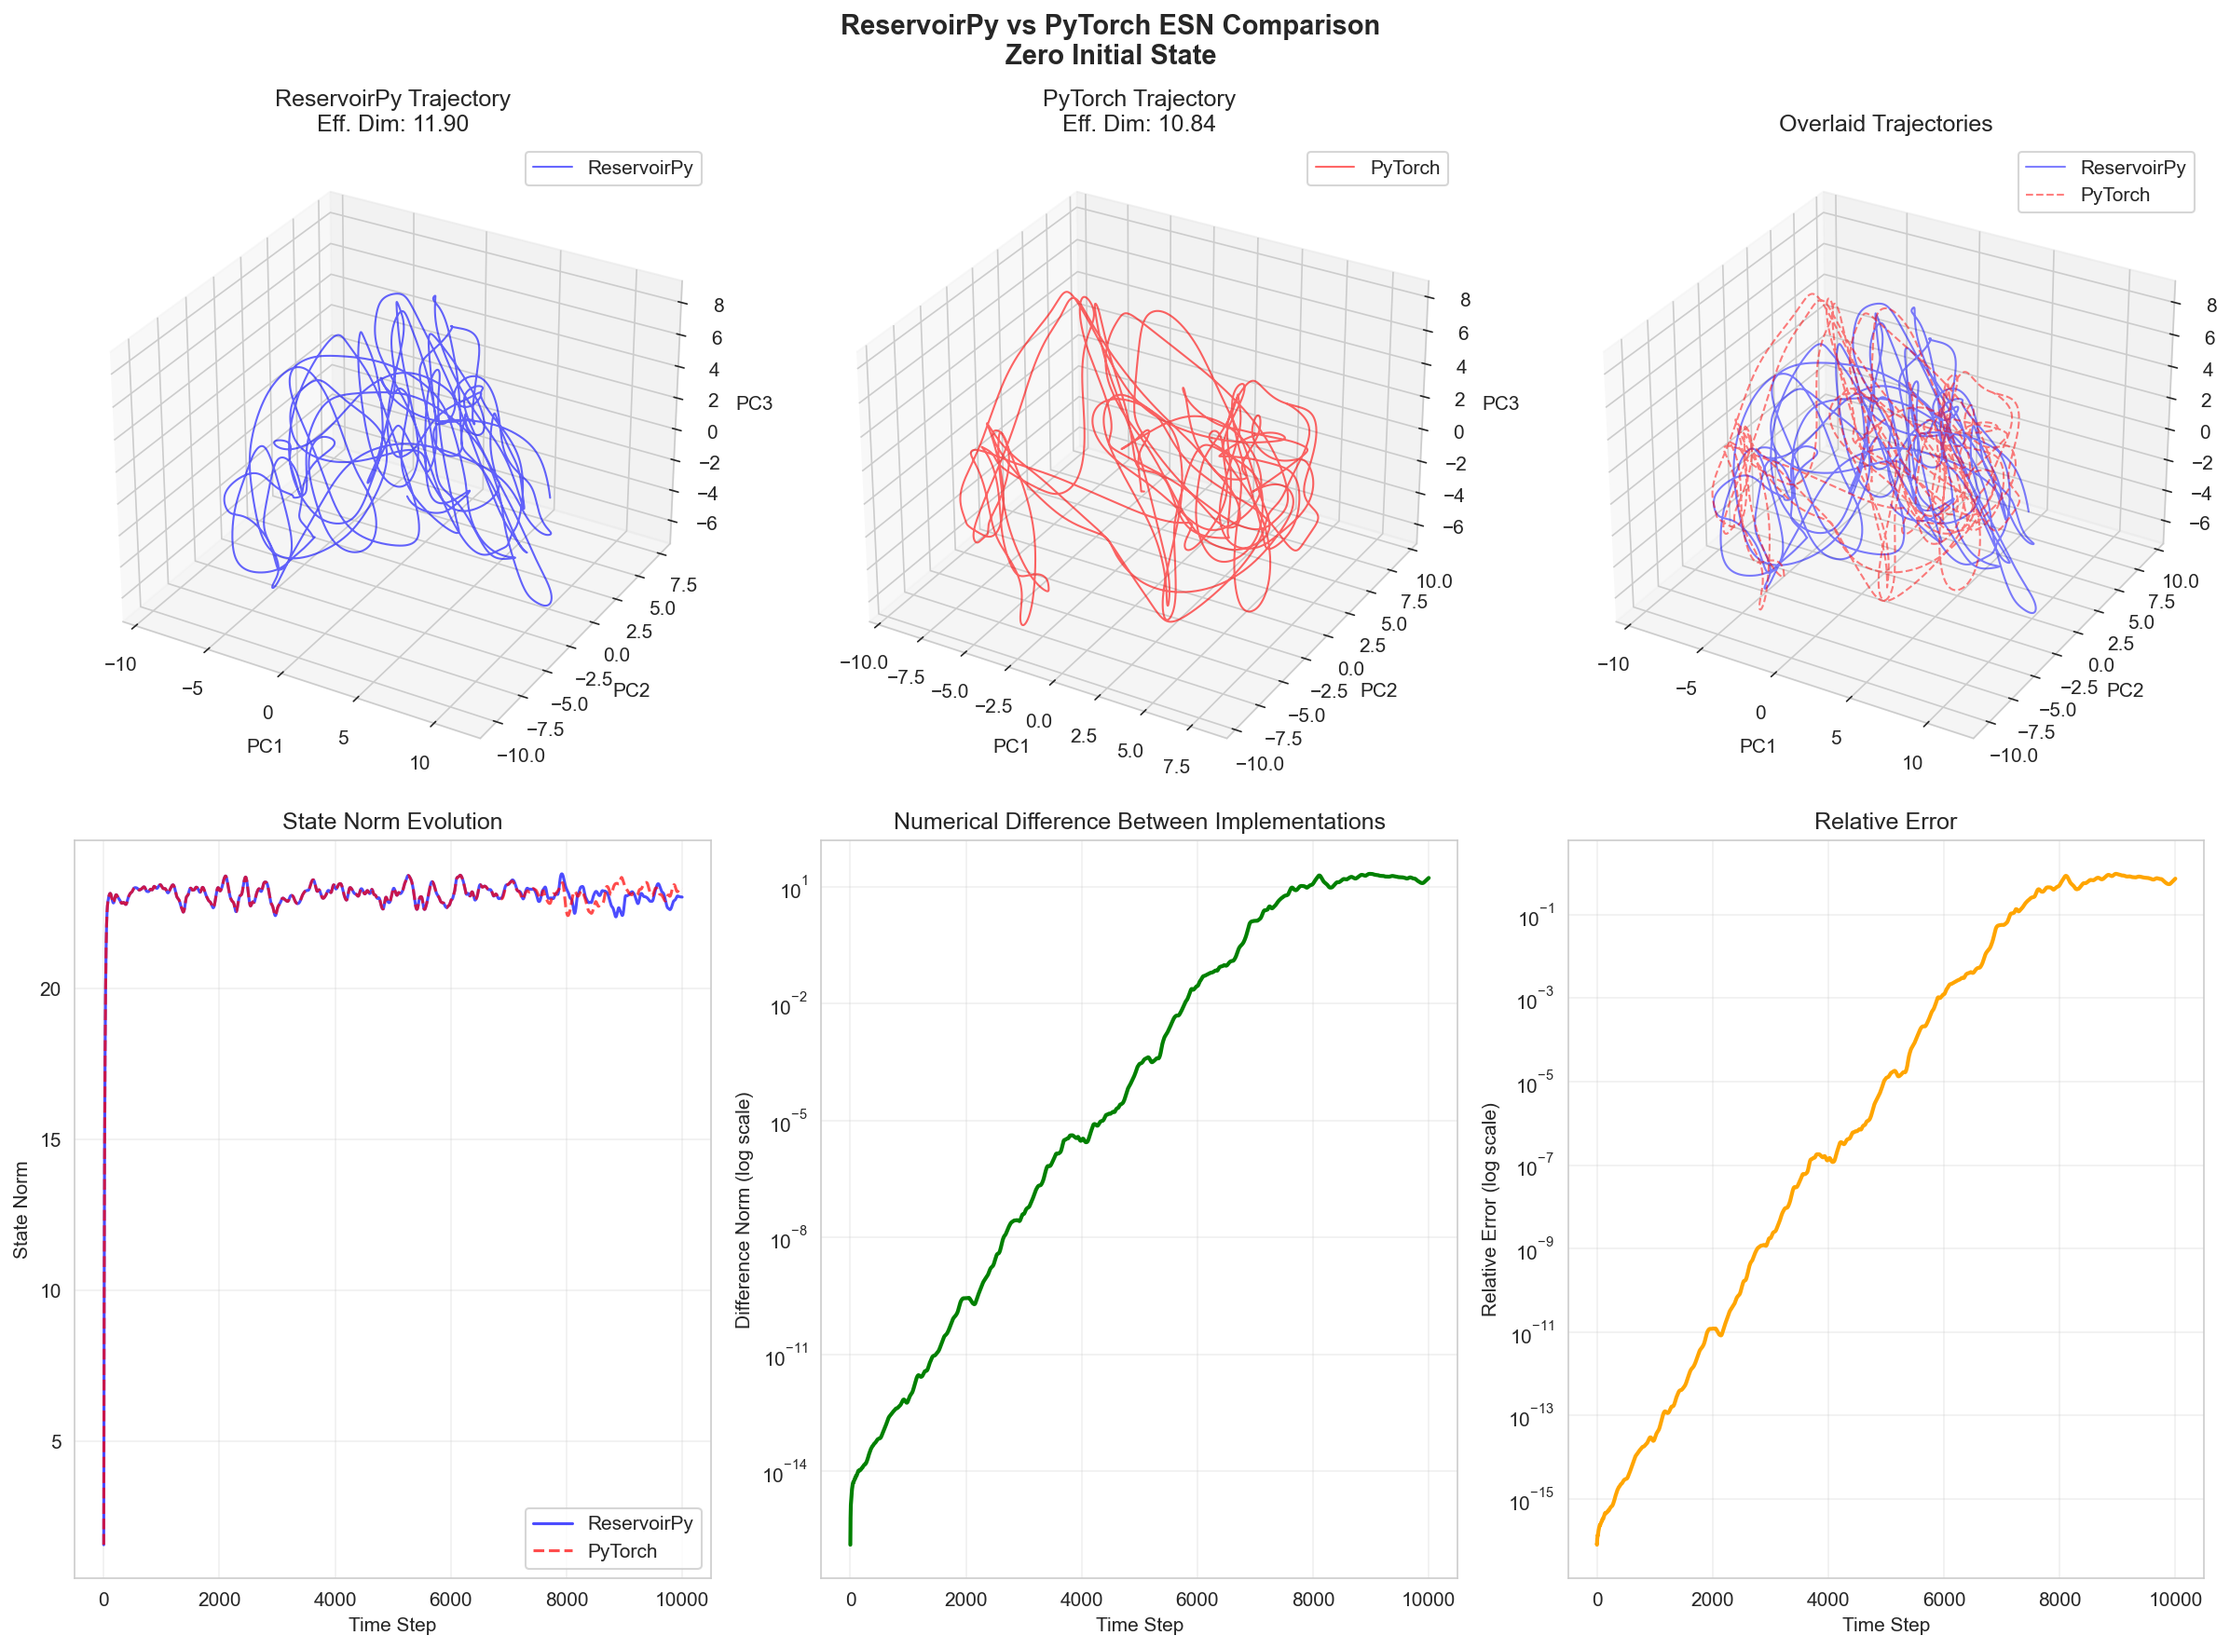
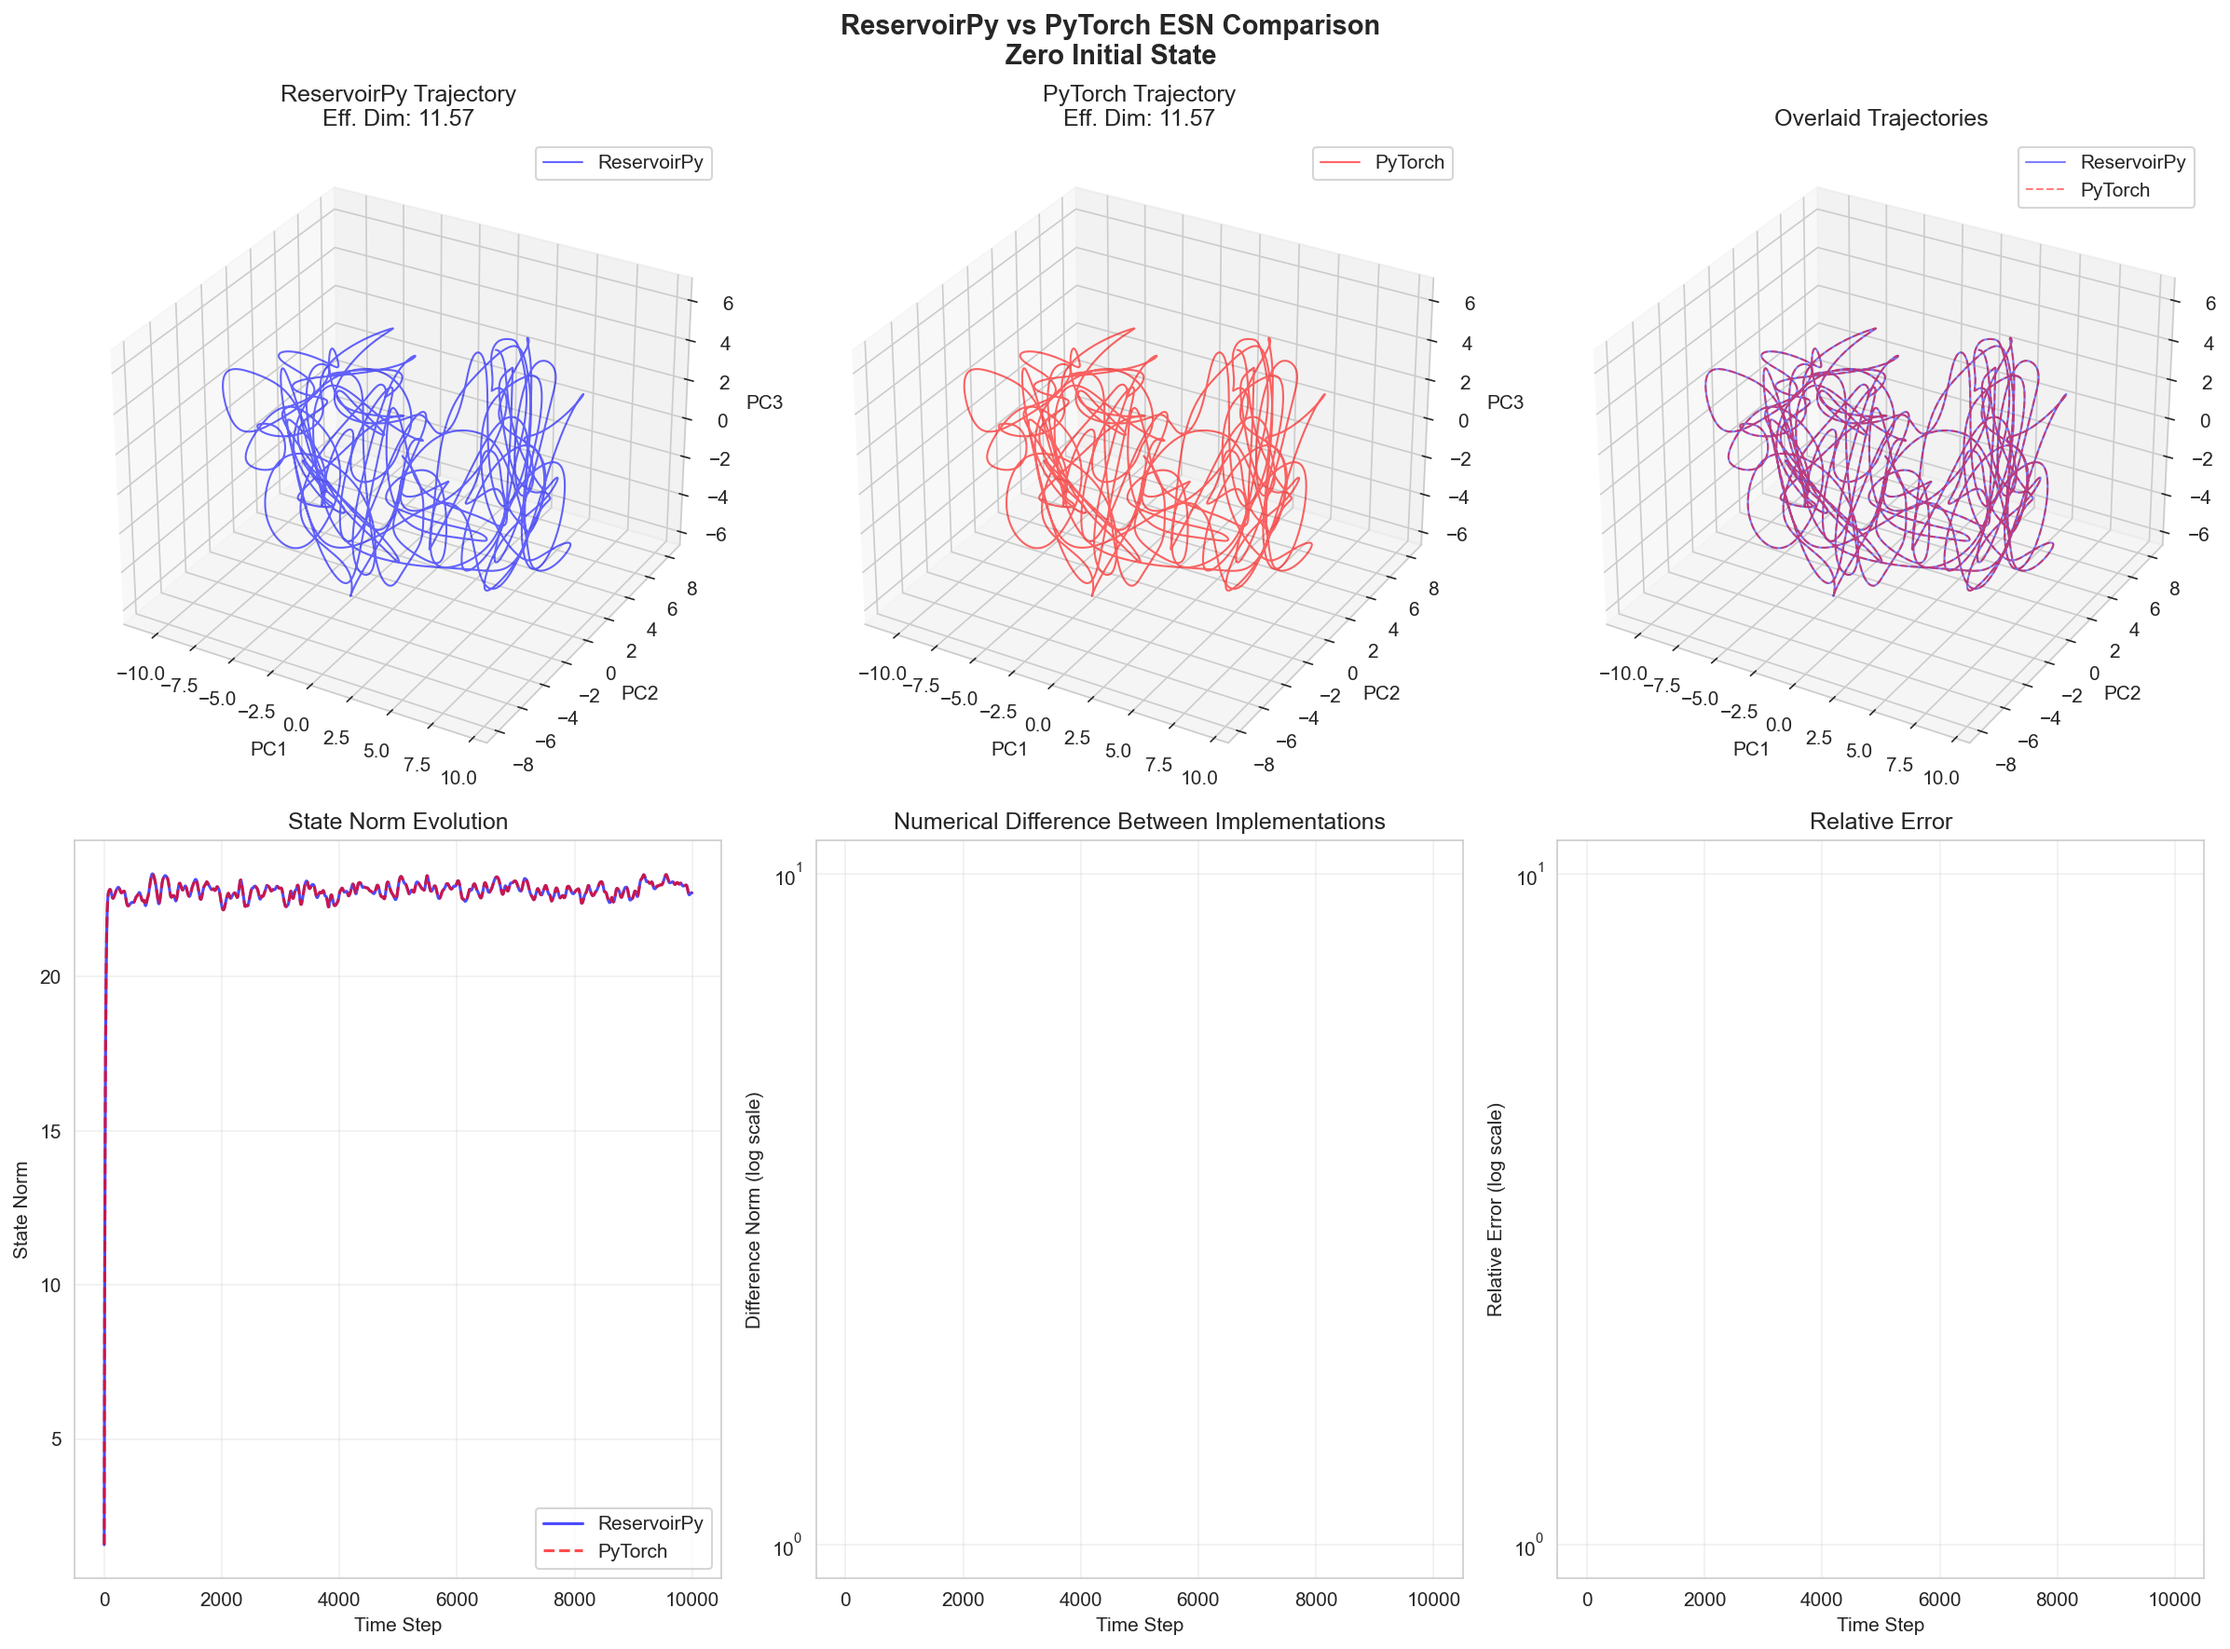
feat: Add GPU/CPU dual-mode PyTorch ESN implementation
- Add computation_mode parameter ('gpu' or 'cpu_precise')
- Implement _forward_gpu() for PyTorch native computation with GPU acceleration
- Implement _forward_cpu_precise() for NumPy computation ensuring ReservoirPy consistency
- Add set_computation_mode() method for dynamic mode switching
- Auto-enable CPU precise mode in comparison experiments
- Achieve perfect numerical consistency in chaotic regime (spectral_radius=1.9)
- Maintain 0.00e+00 difference over 10000 steps in both zero and random initial states
- Support flexible workflow: GPU training + CPU precise validation

diff --git a/ESN_experiments/esn_pytorch_comparison.py b/ESN_experiments/esn_pytorch_comparison.py
@@ -42,7 +42,8 @@ class ESNPyTorch(nn.Module):
     
     def __init__(self, input_dim, reservoir_size, spectral_radius=0.9, 
                  leak_rate=0.1, input_connectivity=0.1, rc_connectivity=0.1,
-                 activation='tanh', dtype=torch.float64, seed=None):
+                 activation='tanh', dtype=torch.float64, seed=None, 
+                 computation_mode='gpu'):
         super(ESNPyTorch, self).__init__()
         
         self.input_dim = input_dim
@@ -52,6 +53,7 @@ class ESNPyTorch(nn.Module):
         self.input_connectivity = input_connectivity
         self.rc_connectivity = rc_connectivity
         self.dtype = dtype
+        self.computation_mode = computation_mode  # 'gpu' or 'cpu_precise'
         
         # 激活函数
         if activation == 'tanh':
@@ -121,11 +123,28 @@ class ESNPyTorch(nn.Module):
         
     def forward(self, input_data):
         """
-        前向传播，实现与ReservoirPy相同的更新方程
+        前向传播，支持GPU模式和CPU精确模式
+        
+        GPU模式 ('gpu'): 使用PyTorch原生计算，享受GPU加速
+        CPU精确模式 ('cpu_precise'): 使用NumPy计算，确保与ReservoirPy数值一致
+        
         x[t+1] = (1-lr)·x[t] + lr·tanh(W·x[t] + Win·u[t+1] + bias)
         """
         if self.state is None:
             self.state = torch.zeros(self.reservoir_size, 1, dtype=self.dtype, device=device)
+        
+        if self.computation_mode == 'cpu_precise':
+            # CPU精确模式：使用NumPy计算，确保与ReservoirPy完全一致
+            return self._forward_cpu_precise(input_data)
+        else:
+            # GPU模式（默认）：使用PyTorch原生计算
+            return self._forward_gpu(input_data)
+    
+    def _forward_gpu(self, input_data):
+        """GPU模式前向传播：使用PyTorch原生计算，享受GPU加速"""
+        # 确保输入是PyTorch张量
+        if not isinstance(input_data, torch.Tensor):
+            input_data = torch.tensor(input_data, dtype=self.dtype, device=device)
         
         # 确保输入是列向量
         if input_data.dim() == 1:
@@ -145,6 +164,62 @@ class ESNPyTorch(nn.Module):
         )
         
         return self.state.squeeze()
+    
+    def _forward_cpu_precise(self, input_data):
+        """CPU精确模式前向传播：使用NumPy计算，确保与ReservoirPy完全一致"""
+        # 转换为NumPy进行计算，确保与ReservoirPy完全一致
+        if isinstance(input_data, torch.Tensor):
+            input_np = input_data.cpu().numpy()
+        else:
+            input_np = input_data
+            
+        # 确保输入是列向量
+        if input_np.ndim == 1:
+            input_np = input_np.reshape(-1, 1)
+        elif input_np.ndim == 2 and input_np.shape[0] == 1:
+            input_np = input_np.T
+            
+        # 获取当前状态的NumPy版本
+        current_state_np = self.state.cpu().numpy()
+        if current_state_np.ndim == 1:
+            current_state_np = current_state_np.reshape(-1, 1)
+            
+        # 获取权重的NumPy版本
+        W_np = self.W.cpu().numpy()
+        Win_np = self.Win.cpu().numpy()
+        bias_np = self.bias.cpu().numpy()
+        if bias_np.ndim == 1:
+            bias_np = bias_np.reshape(-1, 1)
+        
+        # 使用NumPy进行ESN更新计算（与ReservoirPy完全相同）
+        pre_activation = (
+            W_np @ current_state_np +       # W·x[t]
+            Win_np @ input_np +             # Win·u[t+1]
+            bias_np                         # bias
+        )
+        
+        # 使用NumPy的tanh函数，确保与ReservoirPy一致
+        new_state_np = (
+            (1 - self.leak_rate) * current_state_np +              # (1-lr)·x[t]
+            self.leak_rate * np.tanh(pre_activation)               # lr·tanh(...)
+        )
+        
+        # 转换回PyTorch张量
+        self.state = torch.tensor(new_state_np, dtype=self.dtype, device=device)
+        
+        return self.state.squeeze()
+    
+    def set_computation_mode(self, mode):
+        """设置计算模式
+        
+        Args:
+            mode (str): 'gpu' 或 'cpu_precise'
+        """
+        if mode not in ['gpu', 'cpu_precise']:
+            raise ValueError(f"Invalid computation mode: {mode}. Must be 'gpu' or 'cpu_precise'")
+        
+        print(f"ESN computation mode set to: {mode}")
+        self.computation_mode = mode
     
     def reset_state(self, initial_state=None):
         """重置状态"""
@@ -207,7 +282,7 @@ def run_comparison_experiment(n_steps=1000, input_dim=96, reservoir_size=1000,
     comparison_seed = SEED
     np.random.seed(comparison_seed)
     
-    # 1. 先创建PyTorch ESN并初始化权重
+    # 1. 先创建PyTorch ESN并初始化权重（在比较实验中使用CPU精确模式）
     print("\n1. Creating PyTorch ESN with initialized weights...")
     esn_pytorch = ESNPyTorch(
         input_dim=input_dim,
@@ -218,8 +293,11 @@ def run_comparison_experiment(n_steps=1000, input_dim=96, reservoir_size=1000,
         rc_connectivity=0.1,
         activation='tanh',
         dtype=torch.float64,  # 使用双精度以匹配NumPy
-        seed=comparison_seed  # 使用种子初始化权重
+        seed=comparison_seed,  # 使用种子初始化权重
+        computation_mode='cpu_precise'  # 强制使用CPU精确模式确保数值一致性
     )
+    
+    print("  📌 ESN is set to CPU precise mode for numerical consistency verification")
     
     # 2. 创建ReservoirPy的Reservoir（不初始化权重）
     print("\n2. Creating ReservoirPy Reservoir...")
